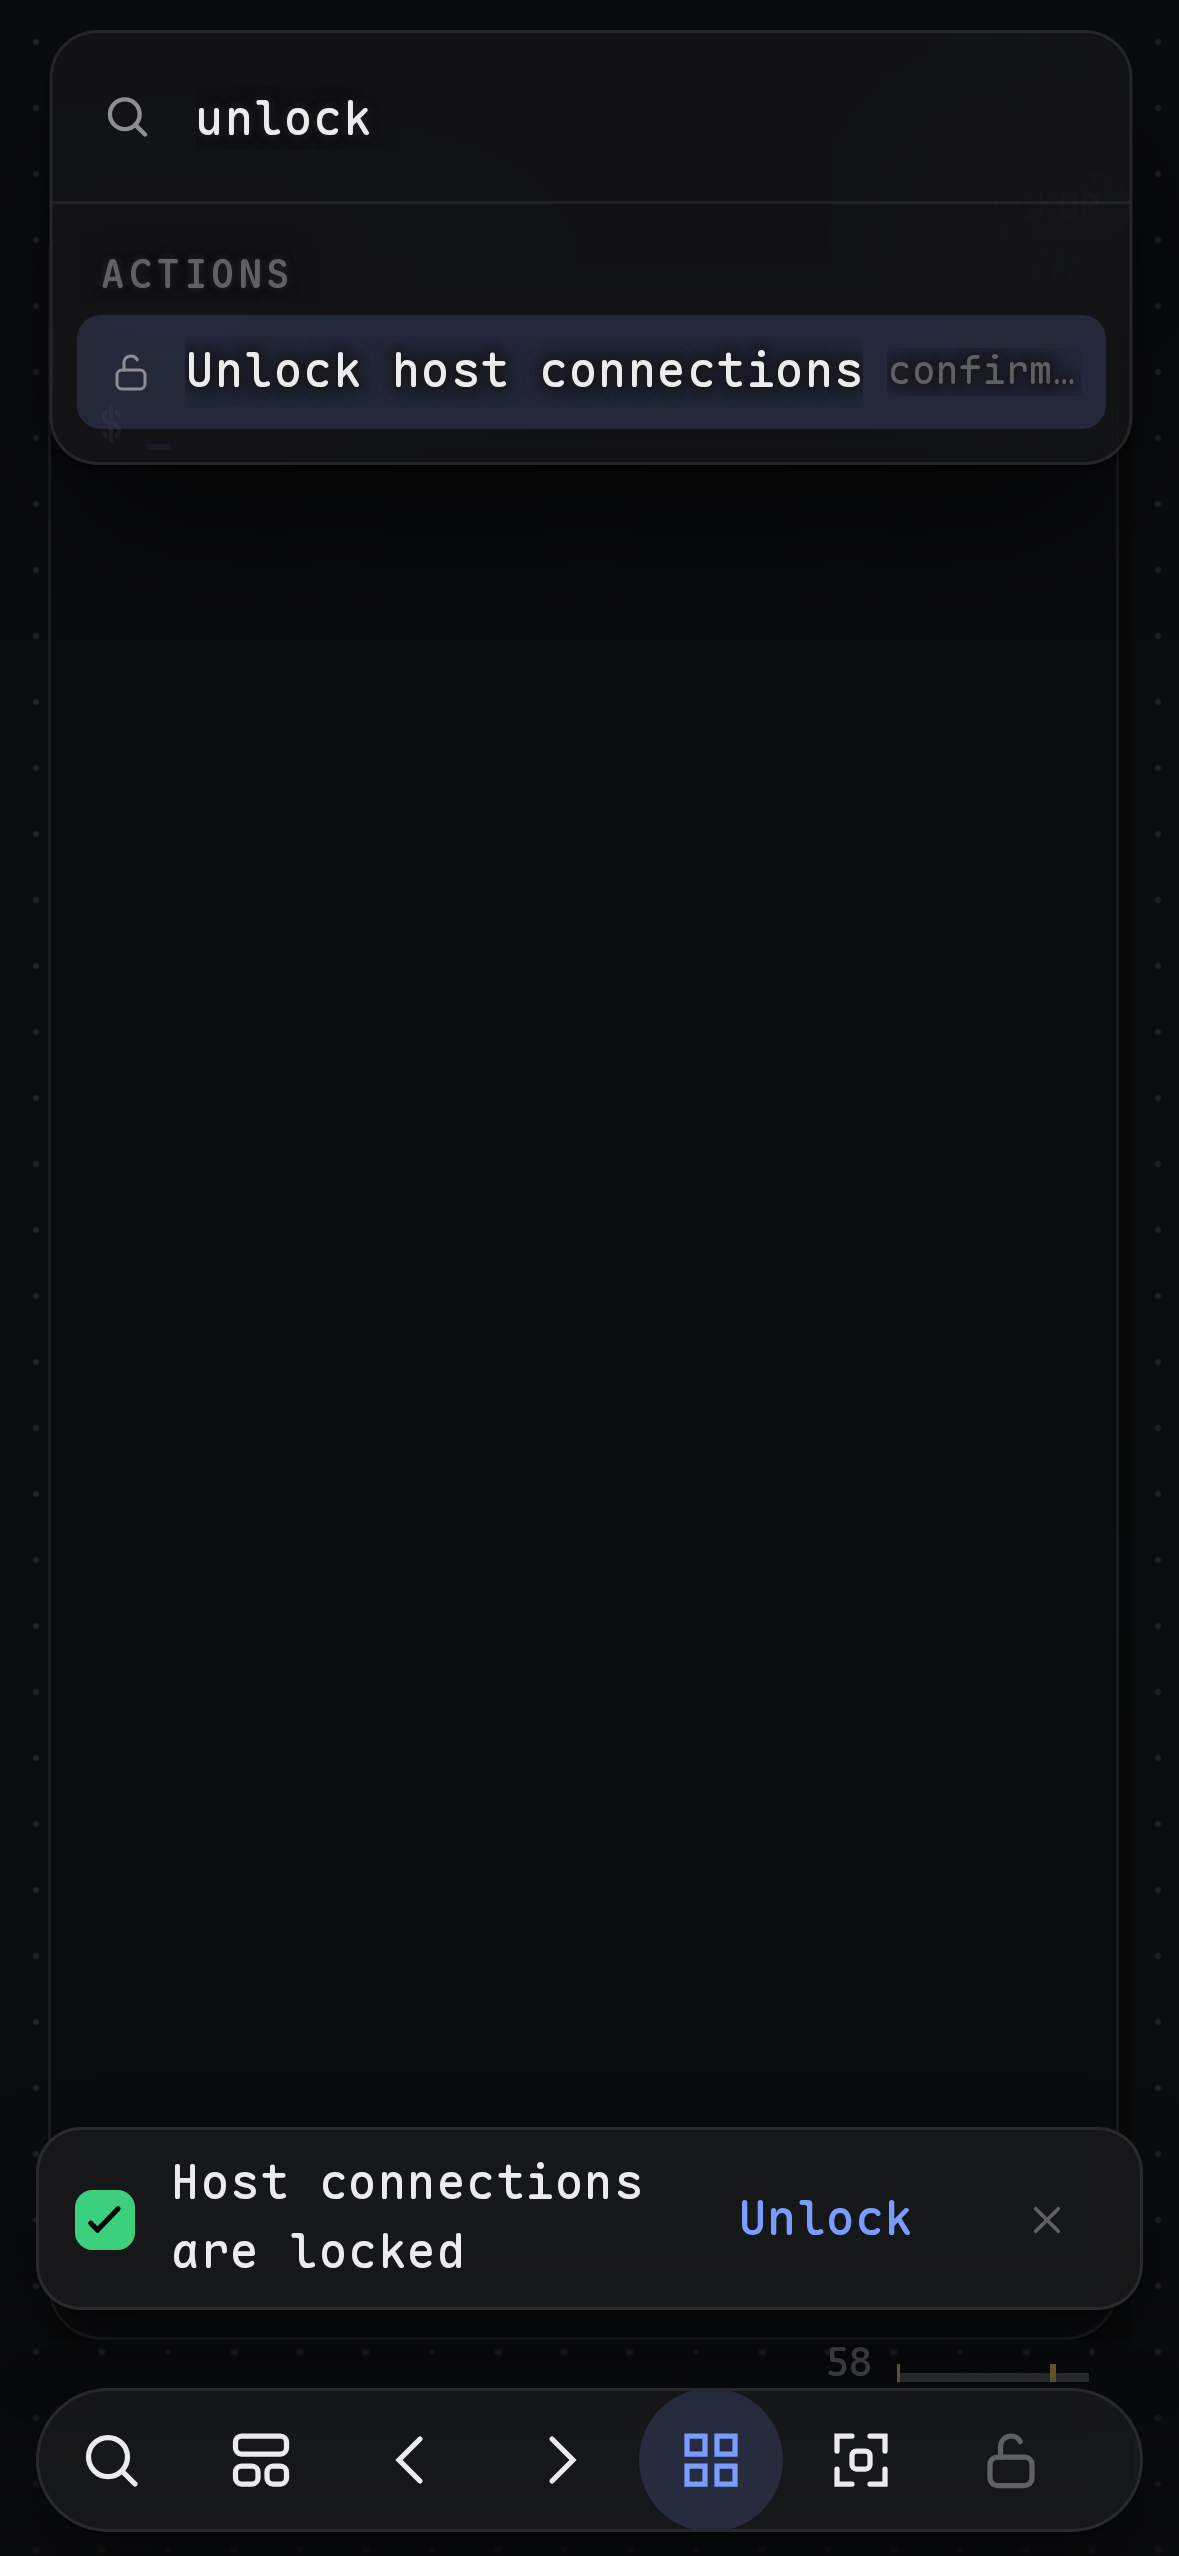
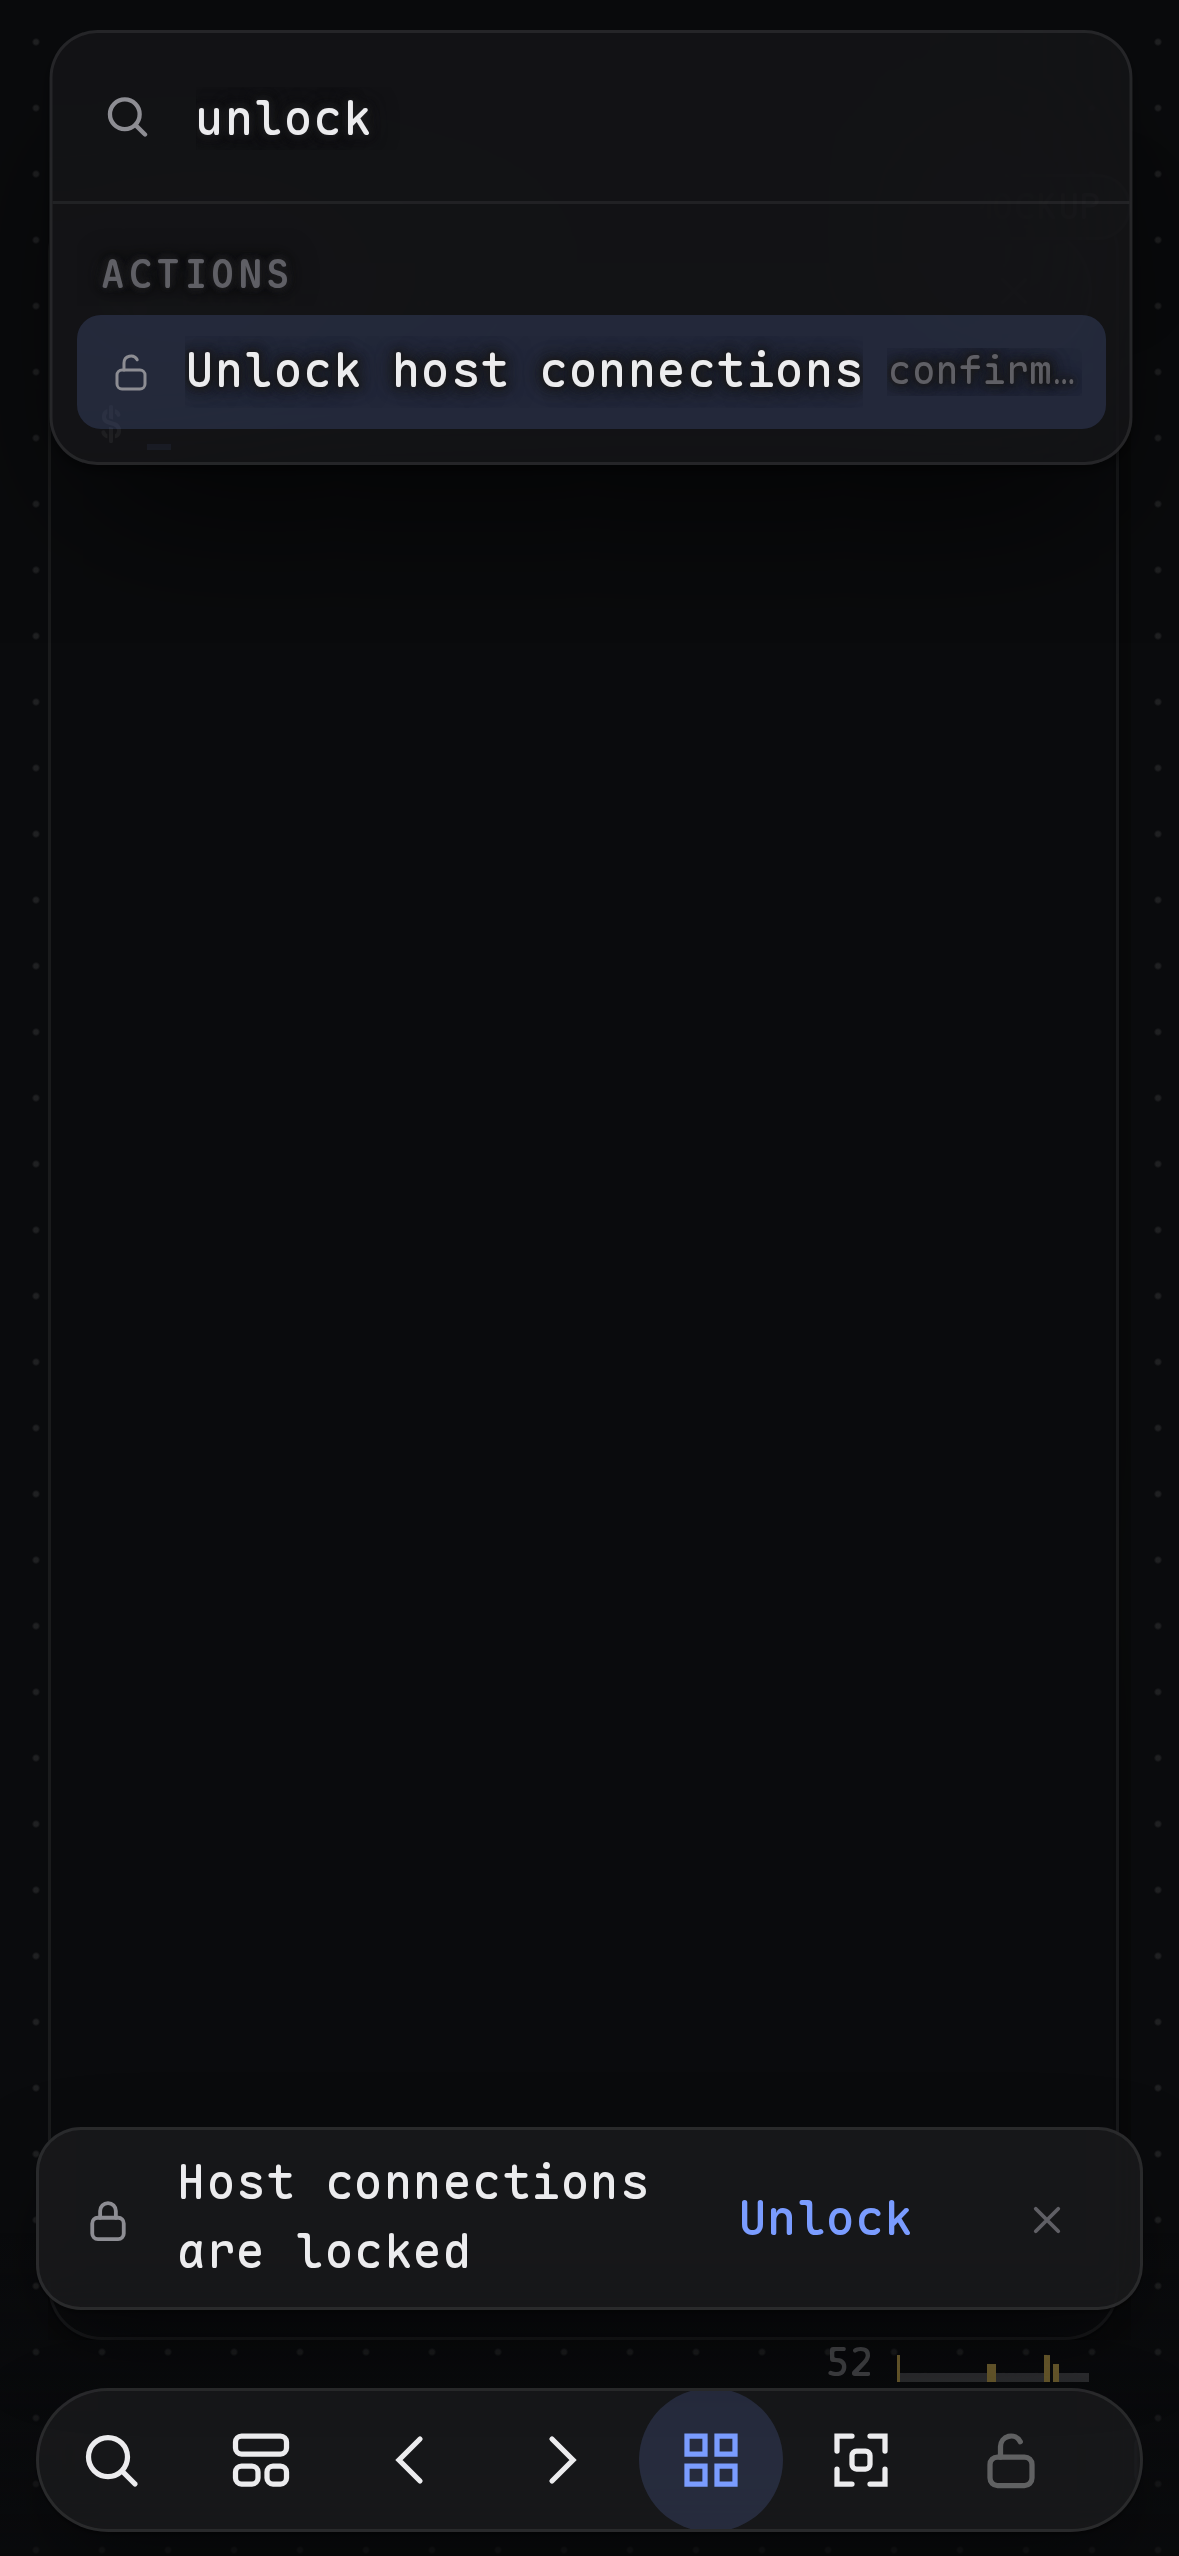
tracer: the inbox card loads with the canvas, not the first screen; the lock toast shows the lock glyph (D234)
The inbox shell added 1.2 KB gzip to the critical class although the lock state
is learned after first paint. The core screen now only offers an attach point
and the toggle's dot (core.inboxMount); the card and its registry are created by
canvas/inbox-host.ts (inboxFor), which only the canvas modules reach, so they
classify as deferred. A withdraw never builds a card for nothing.

The sign-in toast uses the lock glyph (same as the palette row) instead of the
success tick; the "unlocked" outcome keeps the tick (asserted in the spec). The
30 s expiry stays and is documented in authority-unlock.ts: after it the item
lives in the inbox, so nothing is lost.

Budget over 3 builds, gzip (limit): critical 291,278 (base) -> 291,615..291,621
of 307,200; deferred 47,472 (base) -> 48,187..48,189 of 51,200 (3.0 KB free).
Rejected: a dynamic import from the core (still classed critical).

Claude-Session: https://claude.ai/code/session_014Wdcmhu9LMjRN1VWqMNSLg

Changed region(s): [[0.2443, 0.8345, 0.5496, 0.8963], [0.1527, 0.8345, 0.2443, 0.8963], [0.0611, 0.8345, 0.1221, 0.8963]]

diff --git a/apps/tracer/src/core-screen.ts b/apps/tracer/src/core-screen.ts
@@ -9,7 +9,6 @@ import { isMacPlatform, shortcutLabel } from "../../../packages/ui/src/platform"
 import { bindTerminalFont, TERMINAL_FONT_SHORTCUTS } from "./terminal-font-shortcuts";
 import { bindShortcut, bindingLabel, keyCaps, PALETTE_KEYS, paletteAlternate, paletteCombo, platformCombo, registerShortcuts } from "../../../packages/ui/src/shortcuts";
 import { isTypingTarget, mountShortcutsView } from "../../../packages/ui/src/shortcuts-view";
-import { createInbox, type InboxController } from "../../../packages/ui/src/inbox";
 import { createSidebarFoot } from "../../../packages/ui/src/sidebar-foot";
 import { shortcutsSection } from "../../../packages/ui/src/shortcuts-settings";
 import { toolbarSection } from "../../../packages/ui/src/toolbar-settings";
@@ -91,8 +90,11 @@ export interface CoreScreen {
   /** Replaces the host/session tree (the canvas lists its windows here); returns the new tree. */
   /** The one shared toast of the screen: every transient message (recovery, connection, flows) uses it. */
   readonly toast: ToastController;
-  /** The sidebar's inbox (D234): what waits on the person. Sources publish items; the card and the toggle's dot follow. */
-  readonly inbox: InboxController;
+  /**
+   * Where the sidebar's inbox (D234) attaches. The card and its registry load with the canvas (nothing in them is
+   * needed for the first paint; see canvas/inbox-host.ts); only the toggle's dot and its name live here.
+   */
+  readonly inboxMount: { parent: HTMLElement; before: Element | null; onCount(count: number): void };
   /**
    * The key tray has two rows, one visible at a time: the keyboard row (always) and a canvas row
    * (when a canvas gives it items). Returns a controller to update item state and remove the row.
@@ -300,15 +302,18 @@ export function mountCoreScreen(app: HTMLElement, options: CoreScreenOptions): C
     })
     : undefined;
   if (sidebarFoot) { sidebar.append(sidebarFoot.root); sidebar.dataset.foot = ""; }
-  // The card sits above the footer. While the sidebar is closed the toggle carries a dot instead (style.css), and its
-  // name says why, so the pending item is never out of sight and never only a colour.
-  const inbox = createInbox({
+  // While the sidebar is closed the toggle carries a dot, and its name says why, so a pending item is never out of
+  // sight and never only a colour. The card itself is made by the canvas (canvas/inbox-host.ts).
+  let pending = 0;
+  const toggleName = (open: boolean): string => `${open ? "Hide hosts" : "Show hosts"}${pending > 0 ? `, ${pending} waiting for you` : ""}`;
+  const inboxMount = {
     parent: sidebar, before: sidebarFoot?.root ?? null,
-    onCount: (count) => {
+    onCount: (count: number): void => {
+      pending = count;
       sidebarToggle.toggleAttribute("data-pending", count > 0);
-      sidebarToggle.setAttribute("aria-label", `${sidebar.hidden ? "Show hosts" : "Hide hosts"}${count > 0 ? `, ${count} waiting for you` : ""}`);
+      sidebarToggle.setAttribute("aria-label", toggleName(!sidebar.hidden));
     },
-  });
+  };
   const capsule = get<HTMLButtonElement>("#capsule");
   const palette = get<HTMLElement>("#palette");
   const scrim = get<HTMLElement>("#scrim");
@@ -669,7 +674,7 @@ export function mountCoreScreen(app: HTMLElement, options: CoreScreenOptions): C
     else if (reducedMotion.matches) sidebarToggle.animate([{ opacity: 0 }, { opacity: 1 }], { duration: 160, easing: "ease-out" });
     sidebar.hidden = !open;
     sidebarToggle.setAttribute("aria-expanded", String(open));
-    sidebarToggle.setAttribute("aria-label", `${open ? "Hide hosts" : "Show hosts"}${inbox.count() > 0 ? `, ${inbox.count()} waiting for you` : ""}`);
+    sidebarToggle.setAttribute("aria-label", toggleName(open));
     sidebar.classList.toggle("instant", instant);
     if (instant) window.setTimeout(() => sidebar.classList.remove("instant"), 0);
   };
@@ -1464,7 +1469,7 @@ export function mountCoreScreen(app: HTMLElement, options: CoreScreenOptions): C
     },
     showPalette(only) { setPalette(true, "pointer", only); },
     toast,
-    inbox,
+    inboxMount,
     act(action) { runAction(action, "pointer"); },
     appearance: () => ({ theme: currentThemeId, font: committedFont.id, card: cardLevel, windows: windowLevel, background }),
     settingsPanels: { get toolbar() { return toolbarSettings; }, shortcuts: shortcutsPanel, about: aboutPanel },
@@ -1558,7 +1563,6 @@ export function mountCoreScreen(app: HTMLElement, options: CoreScreenOptions): C
     },
     dispose() {
       toast.dispose();
-      inbox.dispose();
       overlayWatch.disconnect();
       cancelRecovery?.removeEventListener("click", cancelClick);
       branch.dispose();

diff --git a/apps/tracer/src/canvas/addhost/authority-unlock.ts b/apps/tracer/src/canvas/addhost/authority-unlock.ts
@@ -14,7 +14,9 @@
  *   asks again, in the background, each time it is built from an answer older than `STALE_MS`.
  *
  * The lock is also a pending item (D234). When a page learns for the first time that the CA is locked and the viewer
- * can unlock it, one persistent toast offers "Unlock" (at every sign-in, because every sign-in is a fresh page).
+ * can unlock it, one persistent toast offers "Unlock" (at every sign-in, because every sign-in is a fresh page). It
+ * carries the lock glyph, not the success tick: a locked state is waiting, not done. It expires after `TOAST_MS`
+ * (the owner allows this: the item then lives in the inbox, so nothing is lost) or when the person dismisses it.
  * When that toast is dismissed or expires the item moves to the sidebar inbox and stays there until the state
  * changes, however it changes: the same refresh points as above (page start, Settings, the palette, an unlock, and the
  * page becoming visible again, which is how another tab's unlock reaches this one) make the card and the dot
@@ -26,6 +28,7 @@
 import type { CoreScreen } from "../../core-screen";
 import { ICONS } from "../../../../../packages/ui/src/icons";
 import { onDemand } from "../../on-demand";
+import { existingInbox, inboxFor } from "../inbox-host";
 import type { ProvisioningService } from "./service";
 
 export const ACTION_UNLOCK = "canvas:unlockauthority";
@@ -75,7 +78,8 @@ export function createAuthorityControl(core: CoreScreen, options: AuthorityOptio
   let toastOpen = false;
   const publish = (): void => {
     const waiting = state === "locked" && toastOver && !busy;
-    core.inbox.set("authority", waiting ? [{
+    const inbox = waiting ? inboxFor(core) : existingInbox(core);
+    inbox?.set("authority", waiting ? [{
       id: "authority-locked", title: LOCKED_TITLE, detail: LOCKED_DETAIL, canAct: options.canUnlock?.() ?? true,
       action: { label: "Unlock", run: () => { void unlock(); } },
     }] : []);
@@ -85,7 +89,7 @@ export function createAuthorityControl(core: CoreScreen, options: AuthorityOptio
     offered = true;
     toastOpen = true;
     core.toast.show({
-      message: LOCKED_TITLE, duration: TOAST_MS, dismissible: true,
+      message: LOCKED_TITLE, duration: TOAST_MS, dismissible: true, icon: ICONS.lock,
       action: { label: "Unlock", onSelect: () => { void unlock(); } },
       onClose: () => { toastOpen = false; toastOver = true; publish(); },
     });
@@ -136,6 +140,6 @@ export function createAuthorityControl(core: CoreScreen, options: AuthorityOptio
   return {
     state: () => state, canUnlock, refresh, unlock,
     onChange(listener) { listeners.add(listener); return () => { listeners.delete(listener); }; },
-    dispose() { window.clearTimeout(first); window.removeEventListener("tracer:canvas-action", onAction); document.removeEventListener("visibilitychange", onVisible); removeProvider(); core.inbox.set("authority", []); listeners.clear(); },
+    dispose() { window.clearTimeout(first); window.removeEventListener("tracer:canvas-action", onAction); document.removeEventListener("visibilitychange", onVisible); removeProvider(); existingInbox(core)?.set("authority", []); listeners.clear(); },
   };
 }

diff --git a/apps/tracer/test/inbox.spec.ts b/apps/tracer/test/inbox.spec.ts
@@ -36,6 +36,9 @@ for (const [name, viewport, scale] of [["desktop", { width: 1440, height: 900 },
     await signIn(page, "ca=locked");
     await expect(toast(page)).toContainText(TITLE, { timeout: 8000 });
     await expect(toast(page).getByRole("button", { name: "Unlock" })).toBeVisible();
+    // A waiting state is not success: the lock glyph shows, not the tick.
+    await expect(toast(page).locator(".ui-toast-glyph")).toBeVisible();
+    await expect(toast(page).locator(".ui-toast-marker")).toBeHidden();
     // The item waits behind its toast: no card, no dot yet.
     await expect(card(page)).toHaveCount(0);
     await expect(toggle(page)).not.toHaveAttribute("data-pending", "");
@@ -61,6 +64,9 @@ for (const [name, viewport, scale] of [["desktop", { width: 1440, height: 900 },
     await expect(card(page)).toHaveCount(0);
     await expect(toggle(page)).not.toHaveAttribute("data-pending", "");
     await expect(toast(page)).toContainText("Host connections unlocked");
+    // The outcome keeps the success look.
+    await expect(toast(page).locator(".ui-toast-marker")).toBeVisible();
+    await expect(toast(page).locator(".ui-toast-glyph")).toBeHidden();
     await page.waitForTimeout(500);
     await page.screenshot({ path: resolve(CAPTURES, `unlocked-${name}.png`) });
 

diff --git a/apps/tracer/src/canvas/inbox-host.ts b/apps/tracer/src/canvas/inbox-host.ts
@@ -1,0 +1,23 @@
+// SPDX-License-Identifier: AGPL-3.0-only
+/**
+ * The sidebar inbox (D234) for the canvas: one card per screen, shared by every source of pending items.
+ *
+ * The card, its registry and its motion load with the canvas, not with the first screen (D188): which item waits is
+ * learned after the first paint anyway. The core screen only provides where it attaches and the toggle's dot
+ * (`core.inboxMount`). A source publishes with `inboxFor(core).set(sourceId, items)`; the authority lock
+ * (addhost/authority-unlock.ts) is the first, and later sources need no UI of their own.
+ */
+import type { CoreScreen } from "../core-screen";
+import { createInbox, type InboxController } from "../../../../packages/ui/src/inbox";
+
+const made = new WeakMap<CoreScreen, InboxController>();
+
+/** The screen's inbox, made on first use. */
+export function inboxFor(core: CoreScreen): InboxController {
+  let inbox = made.get(core);
+  if (!inbox) { inbox = createInbox(core.inboxMount); made.set(core, inbox); }
+  return inbox;
+}
+
+/** The screen's inbox if a source ever published, so withdrawing never builds a card for nothing. */
+export const existingInbox = (core: CoreScreen): InboxController | undefined => made.get(core);
